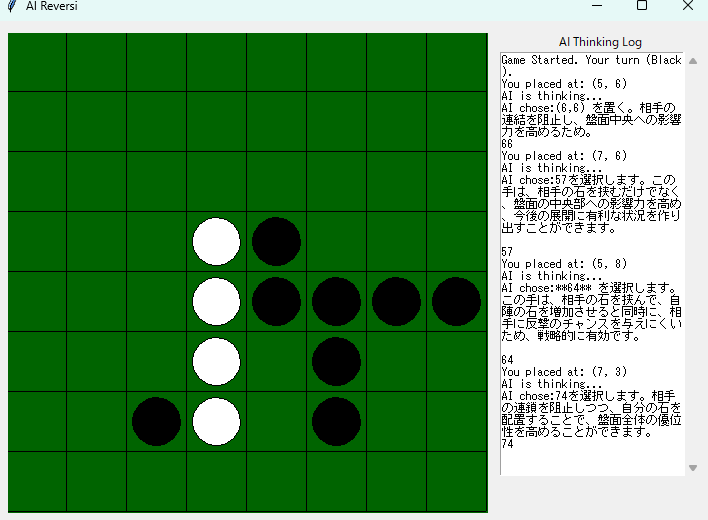
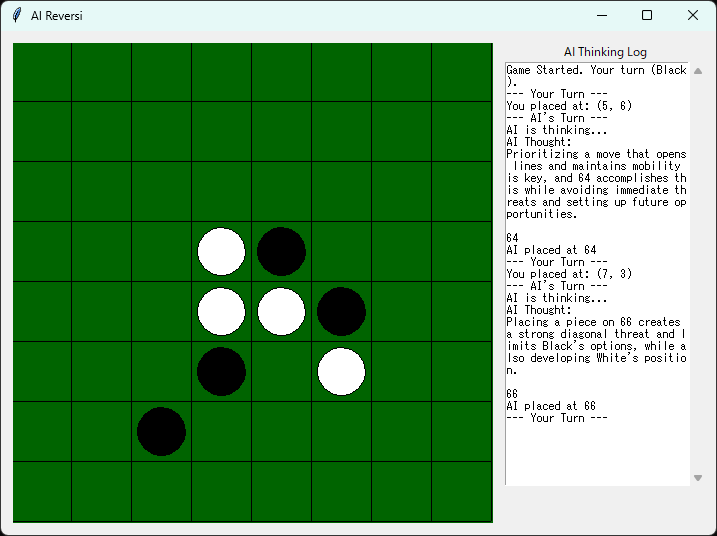
Update images and make logs easier to understand.
When the image is updated and it's your turn, it will display "Your Turn".

diff --git a/ReversiGUI.py b/ReversiGUI.py
@@ -36,6 +36,7 @@ class OthelloGUI:
         self.draw_grid()
         self.refresh_display()
         self.log("Game Started. Your turn (Black).")
+        self.log("--- Your Turn ---")
         
         self.canvas.bind("<Button-1>", self.on_click)
 
@@ -150,6 +151,7 @@ class OthelloGUI:
      # 処理が終わったらメインスレッドで画面更新
      # Once processing is complete, refresh the screen on the main thread.   
      self.root.after(0, self.after_move_process)
+     self.log("--- Your Turn ---")
     def send_ai_request(self, text):
         
      from ollama import chat, ChatResponse # ollamaのライブラリをインポート Import the ollama library
